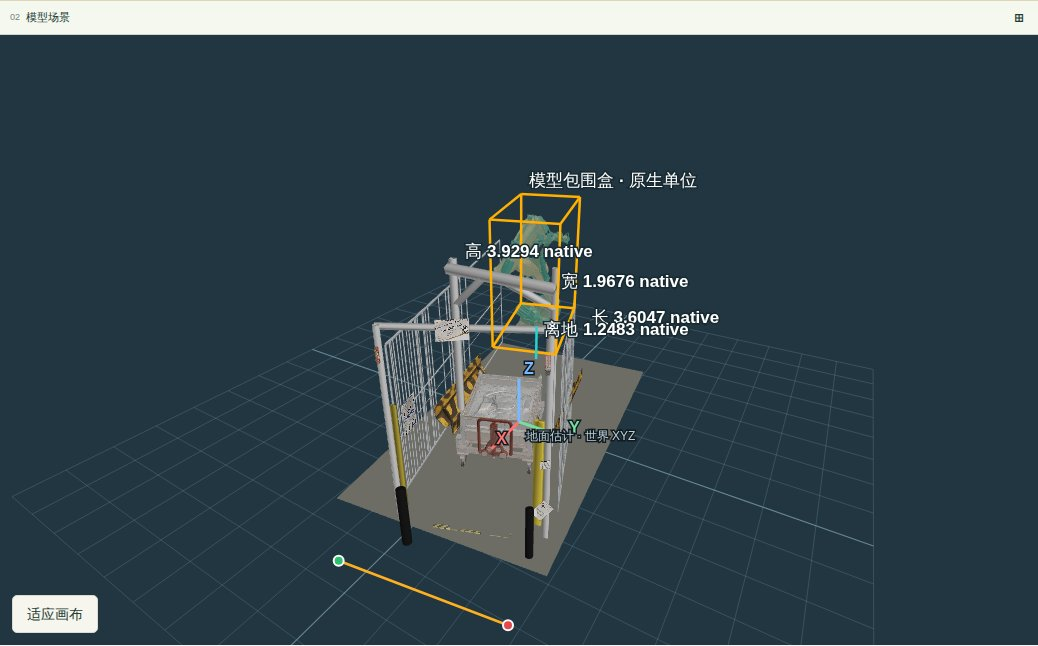
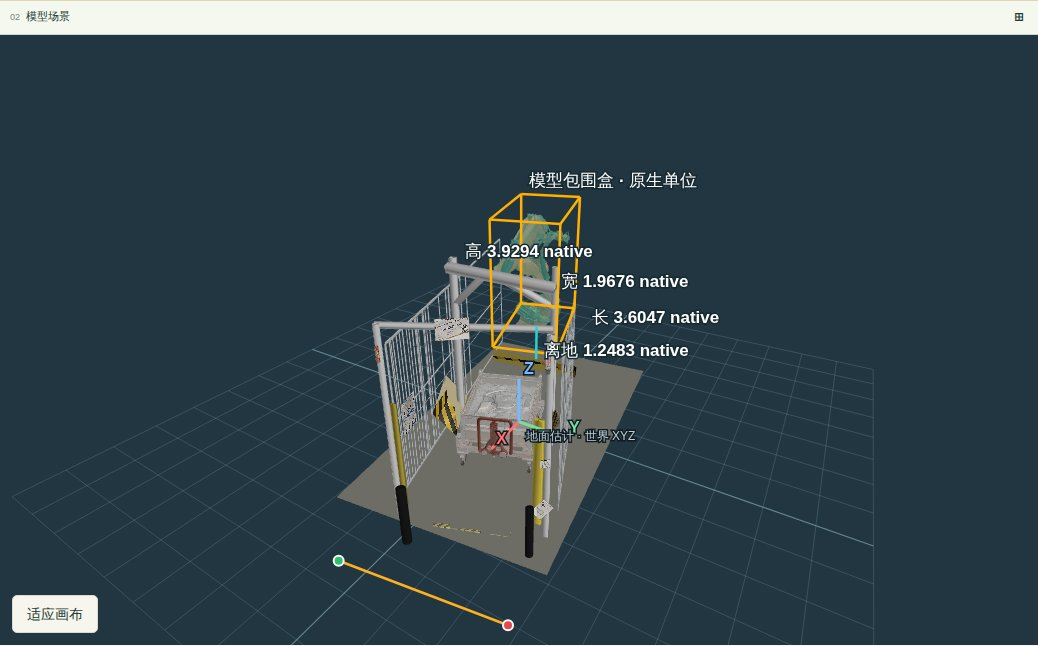
Evidence page: photo-fitted guard plates, readable labels, costs through the last check

diff --git a/workcell-photo-direct/cells-2026-10-04/index.html b/workcell-photo-direct/cells-2026-10-04/index.html
@@ -9,15 +9,15 @@ th,td{border-bottom:1px solid var(--line);padding:6px 10px;text-align:left;verti
 .pictures{display:grid;grid-template-columns:repeat(auto-fill,minmax(260px,1fr));gap:14px}figure{margin:0}img{max-width:100%;border-radius:6px}
 figcaption,small{color:var(--muted);font-size:13px}</style><main>
 <h1>四张照片其实是两个工位：按工位多视角重建</h1>
-<section><h2>结论</h2><ul><li>四张照片拍的是两个同款工位：原照片 1–2 顶牌 BL4-BOR1-030、机器人铭牌 BOR1 00030 RB01、小车满载；原照片 3–4 顶牌 BL4-BOR1-090、铭牌 BOR1 00090 RB01、小车空（见下方原图）。之前把四张融合成一个场景，所以点不同物体时机器人模型会变（其实是两台机器人）。</li><li>每个工位只用自己的两张照片各跑一次完整 oneshot：一个场景；机器人、小车、护板各一个由两张照片共同生成的 RecGen 模型，用 Sim(3) 同时对两张照片的掩码和深度放置；点选任何物体都不换模型。</li><li>龙门架：SAM 3 提示 white steel beam / blue pipe，在两张照片的点云上拟合立柱、横梁、斜撑（方截面）。030 是 4 立柱 + 2 横梁 + 2 斜撑的白色钢架；090 是入口门框（2 立柱 + 1 横梁）。</li><li>信号灯“消失”的原因：每个物体各自按证据放置，没有“实体不能互相穿过”的约束，030 的灯 4 有 87% 埋在龙门架立柱里。现在加了接触阶段：围栏端框和龙门架立柱是同一根柱子时只保留一根；立柱沿照片视线方向最小平移让开光幕（龙门架 IoU 下降 ≤ 0.03 才采用）；灯沿相机射线向相机滑出（这张照片里轮廓不变，验收仍通过才采用）；&lt; 6% 的接触算安装接触并记录。两个工位都已无穿插（最大 5.6%，急停按钮装在立柱上）。CPU 重放：090 用 5.7 s、030 用 10.0 s。</li><li>点选任何物体：面板显示模型的长 × 宽 × 高、最低点离地、顶部离地，3D 里画出定向包围盒和长/宽/高/离地标注（底面最小面积矩形 × 竖直范围）。090 用条件比例显示 cm（光幕 10.1 × 8.4 × 178.4 cm、离地 25.4 cm；信号灯约 5.5 × 5.4 × 20 cm、离地 2.85 m），030 显示 native。</li><li>尺度只来自本工位：090 用急停按钮的条件比例（未验证）；030 没有可用标尺，保持 native 单位，不借用 090 的比例。20 / 24 cm 开发检查值当初是为四张照片提供的，无法确认属于哪个工位，两个报告都不相减。</li><li>两个报告都在 Modal 云端真实浏览器（Chromium，软件 WebGL）检查通过：语义查询 → 本版本测点、尺度试算（090）/ 原生单位（030）、点选物体 → 尺寸与 3D 标注、卡尺 JSON 与下载 GLB 顶点回读，无控制台错误。本机没有渲染。没有物理验证；所有厘米值都是条件模型估计。</li></ul>
-<div class="pictures"><figure><img src="four-photos.jpg" alt="四张原图（左起原照片 1–4）：1–2 是 BL4-BOR1-030，3–4 是 BL4-BOR1-090，同款设计、不同工位"><figcaption>四张原图（左起原照片 1–4）：1–2 是 BL4-BOR1-030，3–4 是 BL4-BOR1-090，同款设计、不同工位</figcaption></figure><figure><img src="top-sign-2.jpg" alt="原照片 2 顶牌：BL4-BOR1-030"><figcaption>原照片 2 顶牌：BL4-BOR1-030</figcaption></figure><figure><img src="top-sign-4.jpg" alt="原照片 4 顶牌：BL4-BOR1-090"><figcaption>原照片 4 顶牌：BL4-BOR1-090</figcaption></figure><figure><img src="robot-poses.jpg" alt="机器人铭牌：原照片 1–2 为 BOR1 00030 RB01，3–4 为 BOR1 00090 RB01"><figcaption>机器人铭牌：原照片 1–2 为 BOR1 00030 RB01，3–4 为 BOR1 00090 RB01</figcaption></figure><figure><img src="cell-090-cloud-model-box.jpg" alt="点选物体（类 Blender）：090 机器人的定向包围盒，长 × 宽 × 高与离地（条件比例，cm）；云端浏览器截图（da1f21b）"><figcaption>点选物体（类 Blender）：090 机器人的定向包围盒，长 × 宽 × 高与离地（条件比例，cm）；云端浏览器截图（da1f21b）</figcaption></figure><figure><img src="cell-030-cloud-model-box.jpg" alt="030 同样的读数，没有标尺，所以是 native 单位"><figcaption>030 同样的读数，没有标尺，所以是 native 单位</figcaption></figure><figure><img src="cell-090-cloud-3d.jpg" alt="云端浏览器渲染：BL4-BOR1-090 一个场景（入口门框、光幕、护板、小车、机器人）"><figcaption>云端浏览器渲染：BL4-BOR1-090 一个场景（入口门框、光幕、护板、小车、机器人）</figcaption></figure><figure><img src="cell-030-cloud-3d.jpg" alt="云端浏览器渲染：BL4-BOR1-030（白色钢架龙门架、围栏、光幕、满载小车、机器人）"><figcaption>云端浏览器渲染：BL4-BOR1-030（白色钢架龙门架、围栏、光幕、满载小车、机器人）</figcaption></figure><figure><img src="cell-090-gantry-photo-1.jpg" alt="090 入口门框（接触处理后）投影到本工位照片 1（原照片 3）：彩色为各构件，蓝色为 SAM 掩码；IoU 0.60"><figcaption>090 入口门框（接触处理后）投影到本工位照片 1（原照片 3）：彩色为各构件，蓝色为 SAM 掩码；IoU 0.60</figcaption></figure><figure><img src="cell-090-gantry-photo-2.jpg" alt="090 门框投影到照片 2（原照片 4）：IoU 0.58"><figcaption>090 门框投影到照片 2（原照片 4）：IoU 0.58</figcaption></figure><figure><img src="cell-030-gantry-photo-1.jpg" alt="030 白色钢架（接触处理后）投影到照片 1（原照片 1）：IoU 0.51"><figcaption>030 白色钢架（接触处理后）投影到照片 1（原照片 1）：IoU 0.51</figcaption></figure><figure><img src="cell-030-gantry-photo-2.jpg" alt="030 钢架投影到照片 2（原照片 2）：IoU 0.44"><figcaption>030 钢架投影到照片 2（原照片 2）：IoU 0.44</figcaption></figure><figure><img src="cell-090-signal-light-2-overlay.jpg" alt="090 信号灯 2：两张照片的 RecGen 模型，立正后沿相机射线移出立柱 6 cm（左：掩码绿、模型轮廓洋红；右：模型叠加）"><figcaption>090 信号灯 2：两张照片的 RecGen 模型，立正后沿相机射线移出立柱 6 cm（左：掩码绿、模型轮廓洋红；右：模型叠加）</figcaption></figure><figure><img src="cell-090-signal-light-4-overlay.jpg" alt="090 信号灯 4：单视角，立正，IoU 0.70"><figcaption>090 信号灯 4：单视角，立正，IoU 0.70</figcaption></figure><figure><img src="cell-030-signal-light-2-overlay.jpg" alt="030 信号灯 2：单视角；自由拟合倾斜 21.0° → 立正 0°，再沿相机射线移出立柱（轮廓不变），IoU 0.66"><figcaption>030 信号灯 2：单视角；自由拟合倾斜 21.0° → 立正 0°，再沿相机射线移出立柱（轮廓不变），IoU 0.66</figcaption></figure><figure><img src="cell-030-signal-light-4-overlay.jpg" alt="030 信号灯 4：原来 87% 埋在立柱里（所以看不见）；立正并移出后 IoU 0.91"><figcaption>030 信号灯 4：原来 87% 埋在立柱里（所以看不见）；立正并移出后 IoU 0.91</figcaption></figure><figure><img src="cell-090-cloud-semantic.jpg" alt="云端浏览器：090 语义查询“寻找光幕”→ 黄色光幕立柱，测点读取本版本"><figcaption>云端浏览器：090 语义查询“寻找光幕”→ 黄色光幕立柱，测点读取本版本</figcaption></figure></div></section>
+<section><h2>结论</h2><ul><li>四张照片是同一车间里两个同款工位：原照片 1–2 顶牌 BL4-BOR1-030、机器人铭牌 BOR1 00030 RB01、小车满载；原照片 3–4 顶牌 BL4-BOR1-090、铭牌 BOR1 00090 RB01、小车空。三维重建只能把同一批物体的照片拼在一起，所以按工位分开。</li><li>每个工位只用自己的两张照片各跑一次完整 oneshot：一个场景；机器人、小车各一个由两张照片共同生成的 RecGen 模型；龙门架由两张照片拟合；信号灯是 RecGen 模型并立正放置；点选任何物体都不换模型。</li><li>V 型护板：两张照片时生成模型（RecGen）把薄板生成成一坨——两张照片的点云把同一块板放在相差几厘米的两层，生成模型把两层熔成一个厚块；030 的中间板只在照片 1 里看得到，生成块根本没对上（IoU 0.07）。现在每块板按它自己的照片点云拟合成平板（带照片纹理）：090 三块 IoU 0.62–0.75（生成块 0.42–0.71），030 中间板出现了（0.40），左板 0.52/0.50。只有一张照片支持的“折边”被判为两张照片的倾角不一致（相差 30°），不当成真实折弯。</li><li>信号灯“消失”是被龙门架立柱埋住了（030 灯 4 有 87% 在立柱里）。接触阶段：同一根柱子只建一次；立柱沿照片视线最小平移让开光幕（龙门架 IoU 下降 ≤ 0.03）；灯沿相机射线滑出（轮廓不变、验收仍通过）；&lt; 6% 的接触算安装接触。两个工位现在都无穿插。</li><li>点选任何物体：面板显示长 × 宽 × 高、最低点离地、顶部离地，3D 里画出定向包围盒和标注（标注会自动错开，不再重叠；已有测点离地线时不重复画离地）。两个报告统一叫“工位 3D 报告”，下面写明有没有尺度：090 用急停按钮的条件比例显示 cm，030 没有标尺显示 native。</li><li>所有修正都是在同一批运行上的 CPU 重放（每步几秒），没有新的 GPU 费用；两个报告都在 Modal 云端真实浏览器检查通过（本机不渲染）。没有物理验证；所有厘米值都是条件模型估计。</li></ul>
+<div class="pictures"><figure><img src="four-photos.jpg" alt="四张原图（左起原照片 1–4）：1–2 是 BL4-BOR1-030，3–4 是 BL4-BOR1-090，同一车间里两个同款工位"><figcaption>四张原图（左起原照片 1–4）：1–2 是 BL4-BOR1-030，3–4 是 BL4-BOR1-090，同一车间里两个同款工位</figcaption></figure><figure><img src="top-sign-2.jpg" alt="原照片 2 顶牌：BL4-BOR1-030"><figcaption>原照片 2 顶牌：BL4-BOR1-030</figcaption></figure><figure><img src="top-sign-4.jpg" alt="原照片 4 顶牌：BL4-BOR1-090"><figcaption>原照片 4 顶牌：BL4-BOR1-090</figcaption></figure><figure><img src="robot-poses.jpg" alt="机器人铭牌：原照片 1–2 为 BOR1 00030 RB01，3–4 为 BOR1 00090 RB01"><figcaption>机器人铭牌：原照片 1–2 为 BOR1 00030 RB01，3–4 为 BOR1 00090 RB01</figcaption></figure><figure><img src="cell-090-cloud-3d.jpg" alt="云端浏览器渲染（6942fd7）：BL4-BOR1-090，V 型护板是照片拟合的平板（中间一块在小车后面，两侧斜放）"><figcaption>云端浏览器渲染（6942fd7）：BL4-BOR1-090，V 型护板是照片拟合的平板（中间一块在小车后面，两侧斜放）</figcaption></figure><figure><img src="cell-030-cloud-3d.jpg" alt="云端浏览器渲染：BL4-BOR1-030（白色钢架龙门架、围栏、光幕、满载小车、照片拟合的护板）；native 单位"><figcaption>云端浏览器渲染：BL4-BOR1-030（白色钢架龙门架、围栏、光幕、满载小车、照片拟合的护板）；native 单位</figcaption></figure><figure><img src="cell-090-cloud-model-box.jpg" alt="点选物体（类 Blender）：机器人的定向包围盒，长 × 宽 × 高与离地；标注不再重叠"><figcaption>点选物体（类 Blender）：机器人的定向包围盒，长 × 宽 × 高与离地；标注不再重叠</figcaption></figure><figure><img src="cell-030-cloud-model-box.jpg" alt="030 同样的读数，没有标尺，所以是 native 单位"><figcaption>030 同样的读数，没有标尺，所以是 native 单位</figcaption></figure><figure><img src="cell-090-gantry-photo-1.jpg" alt="090 入口门框投影到本工位照片 1（原照片 3）：彩色为各构件，蓝色为 SAM 掩码；IoU 0.60"><figcaption>090 入口门框投影到本工位照片 1（原照片 3）：彩色为各构件，蓝色为 SAM 掩码；IoU 0.60</figcaption></figure><figure><img src="cell-090-gantry-photo-2.jpg" alt="090 门框投影到照片 2（原照片 4）：IoU 0.58"><figcaption>090 门框投影到照片 2（原照片 4）：IoU 0.58</figcaption></figure><figure><img src="cell-030-gantry-photo-1.jpg" alt="030 白色钢架投影到照片 1（原照片 1）：IoU 0.51"><figcaption>030 白色钢架投影到照片 1（原照片 1）：IoU 0.51</figcaption></figure><figure><img src="cell-030-gantry-photo-2.jpg" alt="030 钢架投影到照片 2（原照片 2）：IoU 0.44"><figcaption>030 钢架投影到照片 2（原照片 2）：IoU 0.44</figcaption></figure><figure><img src="cell-030-signal-light-4-overlay.jpg" alt="030 信号灯 4：原来 87% 埋在立柱里（所以看不见）；立正并沿相机射线移出后 IoU 0.91"><figcaption>030 信号灯 4：原来 87% 埋在立柱里（所以看不见）；立正并沿相机射线移出后 IoU 0.91</figcaption></figure><figure><img src="cell-030-signal-light-2-overlay.jpg" alt="030 信号灯 2：自由拟合倾斜 21.0° → 立正 0°，再移出立柱（轮廓不变），IoU 0.66"><figcaption>030 信号灯 2：自由拟合倾斜 21.0° → 立正 0°，再移出立柱（轮廓不变），IoU 0.66</figcaption></figure><figure><img src="cell-090-signal-light-2-overlay.jpg" alt="090 信号灯 2：两张照片的 RecGen 模型，立正后沿相机射线移出立柱 6 cm"><figcaption>090 信号灯 2：两张照片的 RecGen 模型，立正后沿相机射线移出立柱 6 cm</figcaption></figure></div></section>
 <section><h2>BL4-BOR1-090（原照片 3–4）</h2>
 <p>照片 1 = image_03.jpg, 照片 2 = image_04.jpg；参考照片 2。<a href="../">打开这个工位的 3D 报告</a></p>
 <p>24 个对象，53 个观察。尺度：conditional_unvalidated，0.67433 m/native（条件比例，未验证）。</p>
 <div class="scroll"><table><thead><tr><th>阶段</th><th>秒</th></tr></thead><tbody><tr><td>完整 oneshot（本机计时，端到端）</td><td>445.1</td></tr><tr><td>报告界面构建（vite，一次，两个工位共用）</td><td>1.2</td></tr><tr><td>主 Modal 调用（本机 modal run 计时）</td><td>367.5</td></tr><tr><td>其中 modal run 启动与收尾（本机）</td><td>12.0</td></tr><tr><td>其中排队、冷启动与照片/结果传输</td><td>34.8</td></tr><tr><td>其中容器运行</td><td>320.7</td></tr><tr><td>容器内：几何（MapAnything）</td><td>45.6</td></tr><tr><td>容器内：OWLv2 检测</td><td>13.7</td></tr><tr><td>容器内：SAM 3 分割</td><td>44.1</td></tr><tr><td>容器内：小车掩码</td><td>2.6</td></tr><tr><td>容器内：RecGen 输入准备</td><td>6.5</td></tr><tr><td>容器内：RecGen 多视角模型（机器人、小车、护板）</td><td>69.8</td></tr><tr><td>容器内：模型之后的全部阶段（CPU 后处理与信号灯）</td><td>153.4</td></tr><tr><td>　其中信号灯 RecGen 与放置</td><td>77.3</td></tr><tr><td>　其中 CPU 后处理（地面、对象、龙门架、尺寸）</td><td>76.2</td></tr><tr><td>语义阶段（第二个 Modal 调用，含排队）</td><td>71.6</td></tr><tr><td>本机：证据图</td><td>1.6</td></tr><tr><td>本机：报告定稿</td><td>3.1</td></tr><tr><td>本机：导出</td><td>0.6</td></tr><tr><td>本机：打包页面</td><td>0.7</td></tr></tbody></table></div>
 <div class="scroll"><table><thead><tr><th>Modal 调用</th><th>返回码</th><th>调用窗口 s</th></tr></thead><tbody><tr><td>one-container</td><td>0</td><td>367.5</td></tr><tr><td>semantic</td><td>0</td><td>68.5</td></tr></tbody></table></div>
 <p><small>估计费用（主调用 + 语义调用）：函数窗口 $0.631，调用窗口 $0.716（列表价，非账单）。</small></p>
-<div class="scroll"><table><thead><tr><th>对象</th><th>模型</th><th>视角</th><th>每张照片的掩码 IoU</th></tr></thead><tbody><tr><td>robot</td><td>RecGen 多视角</td><td>1, 2</td><td>照片1 0.75 / 照片2 0.76</td></tr><tr><td>cart</td><td>RecGen 多视角</td><td>1, 2</td><td>照片1 0.86 / 照片2 0.88</td></tr><tr><td>signal-light-2</td><td>RecGen（灯，2 个视角），立正：自由拟合倾斜 1.3° → 0.0°</td><td>2, 1</td><td>照片1 0.74 / 照片2 0.76</td></tr><tr><td>signal-light-4</td><td>RecGen（灯，1 个视角），立正：自由拟合倾斜 4.9° → 0.0°</td><td>2</td><td>照片2 0.70</td></tr><tr><td>gantry</td><td>龙门架 3 根构件</td><td>1, 2</td><td>照片1 0.60 / 照片2 0.58</td></tr><tr><td>v-guard-left / center / right</td><td>RecGen 多视角（一个护板模型，按原图掩码分成三块）</td><td>1, 2</td><td>照片1 0.61 / 照片2 0.64</td></tr></tbody></table></div>
+<div class="scroll"><table><thead><tr><th>对象</th><th>模型</th><th>视角</th><th>每张照片的掩码 IoU</th></tr></thead><tbody><tr><td>robot</td><td>RecGen 多视角</td><td>1, 2</td><td>照片1 0.75 / 照片2 0.76</td></tr><tr><td>cart</td><td>RecGen 多视角</td><td>1, 2</td><td>照片1 0.86 / 照片2 0.88</td></tr><tr><td>v-guard-left</td><td>照片拟合平板（1 面），替换 RecGen 块（该块 IoU：照片1 0.71 / 照片2 0.64）</td><td>1, 2</td><td>照片1 0.62 / 照片2 0.75</td></tr><tr><td>v-guard-center</td><td>照片拟合平板（1 面），替换 RecGen 块（该块 IoU：照片1 0.48 / 照片2 0.42）</td><td>1, 2</td><td>照片1 0.62 / 照片2 0.62</td></tr><tr><td>v-guard-right</td><td>照片拟合平板（1 面），替换 RecGen 块（该块 IoU：照片1 0.55 / 照片2 0.56）</td><td>1, 2</td><td>照片1 0.66 / 照片2 0.65</td></tr><tr><td>signal-light-2</td><td>RecGen（灯，2 个视角），立正：自由拟合倾斜 1.3° → 0.0°</td><td>2, 1</td><td>照片1 0.74 / 照片2 0.76</td></tr><tr><td>signal-light-4</td><td>RecGen（灯，1 个视角），立正：自由拟合倾斜 4.9° → 0.0°</td><td>2</td><td>照片2 0.70</td></tr><tr><td>gantry</td><td>龙门架 3 根构件</td><td>1, 2</td><td>照片1 0.60 / 照片2 0.58</td></tr></tbody></table></div>
 <div class="scroll"><table><thead><tr><th>测点</th><th>离地（条件估计）</th></tr></thead><tbody><tr><td>右侧光幕底端</td><td>25.40 cm</td></tr><tr><td>左侧光幕底端</td><td>28.08 cm</td></tr><tr><td>右侧光幕旁围栏下沿</td><td>19.32 cm</td></tr><tr><td>左侧光幕旁围栏下包络假设</td><td>22.39 cm</td></tr></tbody></table></div>
 </section><section><h2>BL4-BOR1-030（原照片 1–2）</h2>
 <p>照片 1 = image_01.jpg, 照片 2 = image_02.jpg；参考照片 2。<a href="../cell-030/">打开这个工位的 3D 报告</a></p>
@@ -25,9 +25,9 @@ figcaption,small{color:var(--muted);font-size:13px}</style><main>
 <div class="scroll"><table><thead><tr><th>阶段</th><th>秒</th></tr></thead><tbody><tr><td>完整 oneshot（本机计时，端到端）</td><td>384.1</td></tr><tr><td>报告界面构建（vite，一次，两个工位共用）</td><td>1.2</td></tr><tr><td>主 Modal 调用（本机 modal run 计时）</td><td>314.8</td></tr><tr><td>其中 modal run 启动与收尾（本机）</td><td>11.9</td></tr><tr><td>其中排队、冷启动与照片/结果传输</td><td>24.8</td></tr><tr><td>其中容器运行</td><td>278.1</td></tr><tr><td>容器内：几何（MapAnything）</td><td>41.1</td></tr><tr><td>容器内：OWLv2 检测</td><td>15.7</td></tr><tr><td>容器内：SAM 3 分割</td><td>38.1</td></tr><tr><td>容器内：小车掩码</td><td>2.4</td></tr><tr><td>容器内：RecGen 输入准备</td><td>7.0</td></tr><tr><td>容器内：RecGen 多视角模型（机器人、小车、护板）</td><td>59.1</td></tr><tr><td>容器内：模型之后的全部阶段（CPU 后处理与信号灯）</td><td>123.6</td></tr><tr><td>　其中信号灯 RecGen 与放置</td><td>55.9</td></tr><tr><td>　其中 CPU 后处理（地面、对象、龙门架、尺寸）</td><td>67.6</td></tr><tr><td>语义阶段（第二个 Modal 调用，含排队）</td><td>63.3</td></tr><tr><td>本机：证据图</td><td>1.4</td></tr><tr><td>本机：报告定稿</td><td>3.0</td></tr><tr><td>本机：导出</td><td>0.5</td></tr><tr><td>本机：打包页面</td><td>1.1</td></tr></tbody></table></div>
 <div class="scroll"><table><thead><tr><th>Modal 调用</th><th>返回码</th><th>调用窗口 s</th></tr></thead><tbody><tr><td>one-container</td><td>0</td><td>314.8</td></tr><tr><td>semantic</td><td>0</td><td>60.1</td></tr></tbody></table></div>
 <p><small>估计费用（主调用 + 语义调用）：函数窗口 $0.553，调用窗口 $0.622（列表价，非账单）。</small></p>
-<div class="scroll"><table><thead><tr><th>对象</th><th>模型</th><th>视角</th><th>每张照片的掩码 IoU</th></tr></thead><tbody><tr><td>robot</td><td>RecGen 多视角</td><td>1, 2</td><td>照片1 0.72 / 照片2 0.58</td></tr><tr><td>cart</td><td>RecGen 多视角</td><td>1, 2</td><td>照片1 0.84 / 照片2 0.90</td></tr><tr><td>signal-light-2</td><td>RecGen（灯，1 个视角），立正：自由拟合倾斜 21.0° → 0.0°</td><td>2</td><td>照片2 0.66</td></tr><tr><td>signal-light-4</td><td>RecGen（灯，1 个视角），立正：自由拟合倾斜 4.8° → 0.0°</td><td>2</td><td>照片2 0.91</td></tr><tr><td>gantry</td><td>龙门架 8 根构件</td><td>1, 2</td><td>照片1 0.51 / 照片2 0.44</td></tr><tr><td>v-guard-left / center / right</td><td>RecGen 多视角（一个护板模型，按原图掩码分成三块）</td><td>1, 2</td><td>照片1 0.59 / 照片2 0.58</td></tr></tbody></table></div>
+<div class="scroll"><table><thead><tr><th>对象</th><th>模型</th><th>视角</th><th>每张照片的掩码 IoU</th></tr></thead><tbody><tr><td>robot</td><td>RecGen 多视角</td><td>1, 2</td><td>照片1 0.72 / 照片2 0.58</td></tr><tr><td>cart</td><td>RecGen 多视角</td><td>1, 2</td><td>照片1 0.84 / 照片2 0.90</td></tr><tr><td>v-guard-left</td><td>照片拟合平板（1 面），替换 RecGen 块（该块 IoU：照片1 0.56 / 照片2 0.35）</td><td>1, 2</td><td>照片1 0.52 / 照片2 0.50</td></tr><tr><td>v-guard-center</td><td>照片拟合平板（1 面），替换 RecGen 块（该块 IoU：照片1 0.07）</td><td>1</td><td>照片1 0.40</td></tr><tr><td>v-guard-right</td><td>照片拟合平板（1 面），替换 RecGen 块（该块 IoU：照片1 0.57）</td><td>1</td><td>照片1 0.74</td></tr><tr><td>signal-light-2</td><td>RecGen（灯，1 个视角），立正：自由拟合倾斜 21.0° → 0.0°</td><td>2</td><td>照片2 0.66</td></tr><tr><td>signal-light-4</td><td>RecGen（灯，1 个视角），立正：自由拟合倾斜 4.8° → 0.0°</td><td>2</td><td>照片2 0.91</td></tr><tr><td>gantry</td><td>龙门架 8 根构件</td><td>1, 2</td><td>照片1 0.51 / 照片2 0.44</td></tr></tbody></table></div>
 <div class="scroll"><table><thead><tr><th>测点</th><th>离地（条件估计）</th></tr></thead><tbody><tr><td>右侧光幕底端</td><td>0.4535 native</td></tr><tr><td>左侧光幕底端</td><td>0.3363 native</td></tr><tr><td>左侧光幕旁围栏下包络假设</td><td>0.3912 native</td></tr></tbody></table></div>
 </section>
-<section><h2>本轮全部 Modal 调用（GPU 与 CPU，含失败）</h2><div class="scroll"><table><thead><tr><th>调用</th><th>状态</th><th>函数估计 $</th><th>调用窗口估计 $</th></tr></thead><tbody><tr><td>cell 090 attempt a (builder) oneshot</td><td>failed</td><td>0.332</td><td>0.332</td></tr><tr><td>cell 090 attempt b (builder) oneshot</td><td>failed</td><td>0.384</td><td>0.439</td></tr><tr><td>cell 090 attempt c (builder, superseded) oneshot</td><td>completed_superseded</td><td>0.247</td><td>0.277</td></tr><tr><td>cell 090 attempt c (builder, superseded) semantic stage</td><td>completed_superseded</td><td>0.036</td><td>0.052</td></tr><tr><td>cell 030 attempt a (builder, superseded) oneshot</td><td>completed_superseded</td><td>0.237</td><td>0.272</td></tr><tr><td>cell 030 attempt a (builder, superseded) semantic stage</td><td>completed_superseded</td><td>0.035</td><td>0.051</td></tr><tr><td>gantry SAM 3 prompt probe</td><td>completed</td><td>0.079</td><td>0.079</td></tr><tr><td>lamp RecGen probe (both cells + canonical-grid controls)</td><td>completed</td><td>0.266</td><td>0.337</td></tr><tr><td>cloud browser check a (failed: browsers path)</td><td>failed</td><td>0.001</td><td>0.002</td></tr><tr><td>cloud browser check b (2026-10-03 report)</td><td>completed</td><td>0.013</td><td>0.013</td></tr><tr><td>cell 090 final (gantry + lamps, superseded by v2) oneshot</td><td>completed_superseded</td><td>0.486</td><td>0.528</td></tr><tr><td>cell 090 final (gantry + lamps, superseded by v2) semantic stage</td><td>completed_superseded</td><td>0.060</td><td>0.105</td></tr><tr><td>cell 030 final (gantry + lamps, superseded by v2) oneshot</td><td>completed_superseded</td><td>0.441</td><td>0.643</td></tr><tr><td>cell 030 final (gantry + lamps, superseded by v2) semantic stage</td><td>completed_superseded</td><td>0.066</td><td>0.091</td></tr><tr><td>cell 090 v2 (upright lamps, published) oneshot</td><td>completed</td><td>0.569</td><td>0.631</td></tr><tr><td>cell 090 v2 (upright lamps, published) semantic stage</td><td>completed</td><td>0.062</td><td>0.085</td></tr><tr><td>cell 030 v2 (upright lamps, published) oneshot</td><td>completed</td><td>0.494</td><td>0.538</td></tr><tr><td>cell 030 v2 (upright lamps, published) semantic stage</td><td>completed</td><td>0.059</td><td>0.084</td></tr><tr><td>cloud browser check, cell 090 report 9e47e2f</td><td>completed</td><td>0.010</td><td>0.010</td></tr><tr><td>cloud browser check, cell 030 report 9e47e2f</td><td>completed</td><td>0.007</td><td>0.007</td></tr><tr><td>cloud browser check, cell 090 report 2bddf31</td><td>completed</td><td>0.008</td><td>0.008</td></tr><tr><td>cloud browser check, cell 030 report 2bddf31</td><td>completed</td><td>0.006</td><td>0.007</td></tr><tr><td>cloud browser check, cell 090 report 09a1849 (contacts, model box)</td><td>completed</td><td>0.009</td><td>0.009</td></tr><tr><td>cloud browser check, cell 030 report 09a1849 (contacts, model box)</td><td>completed</td><td>0.007</td><td>0.007</td></tr><tr><td>cloud browser check, cell 090 report da1f21b (labels)</td><td>completed</td><td>0.010</td><td>0.010</td></tr><tr><td>cloud browser check, cell 030 report da1f21b (labels)</td><td>completed</td><td>0.007</td><td>0.007</td></tr><tr><td>合计（含失败）</td><td>26 次调用，3 次失败</td><td>3.930</td><td>4.624</td></tr><tr><td>其中失败</td><td></td><td>0.718</td><td>0.773</td></tr></tbody></table></div>
+<section><h2>本轮全部 Modal 调用（GPU 与 CPU，含失败）</h2><div class="scroll"><table><thead><tr><th>调用</th><th>状态</th><th>函数估计 $</th><th>调用窗口估计 $</th></tr></thead><tbody><tr><td>cell 090 attempt a (builder) oneshot</td><td>failed</td><td>0.332</td><td>0.332</td></tr><tr><td>cell 090 attempt b (builder) oneshot</td><td>failed</td><td>0.384</td><td>0.439</td></tr><tr><td>cell 090 attempt c (builder, superseded) oneshot</td><td>completed_superseded</td><td>0.247</td><td>0.277</td></tr><tr><td>cell 090 attempt c (builder, superseded) semantic stage</td><td>completed_superseded</td><td>0.036</td><td>0.052</td></tr><tr><td>cell 030 attempt a (builder, superseded) oneshot</td><td>completed_superseded</td><td>0.237</td><td>0.272</td></tr><tr><td>cell 030 attempt a (builder, superseded) semantic stage</td><td>completed_superseded</td><td>0.035</td><td>0.051</td></tr><tr><td>gantry SAM 3 prompt probe</td><td>completed</td><td>0.079</td><td>0.079</td></tr><tr><td>lamp RecGen probe (both cells + canonical-grid controls)</td><td>completed</td><td>0.266</td><td>0.337</td></tr><tr><td>cloud browser check a (failed: browsers path)</td><td>failed</td><td>0.001</td><td>0.002</td></tr><tr><td>cloud browser check b (2026-10-03 report)</td><td>completed</td><td>0.013</td><td>0.013</td></tr><tr><td>cell 090 final (gantry + lamps, superseded by v2) oneshot</td><td>completed_superseded</td><td>0.486</td><td>0.528</td></tr><tr><td>cell 090 final (gantry + lamps, superseded by v2) semantic stage</td><td>completed_superseded</td><td>0.060</td><td>0.105</td></tr><tr><td>cell 030 final (gantry + lamps, superseded by v2) oneshot</td><td>completed_superseded</td><td>0.441</td><td>0.643</td></tr><tr><td>cell 030 final (gantry + lamps, superseded by v2) semantic stage</td><td>completed_superseded</td><td>0.066</td><td>0.091</td></tr><tr><td>cell 090 v2 (upright lamps, published) oneshot</td><td>completed</td><td>0.569</td><td>0.631</td></tr><tr><td>cell 090 v2 (upright lamps, published) semantic stage</td><td>completed</td><td>0.062</td><td>0.085</td></tr><tr><td>cell 030 v2 (upright lamps, published) oneshot</td><td>completed</td><td>0.494</td><td>0.538</td></tr><tr><td>cell 030 v2 (upright lamps, published) semantic stage</td><td>completed</td><td>0.059</td><td>0.084</td></tr><tr><td>cloud browser check, cell 090 report 9e47e2f</td><td>completed</td><td>0.010</td><td>0.010</td></tr><tr><td>cloud browser check, cell 030 report 9e47e2f</td><td>completed</td><td>0.007</td><td>0.007</td></tr><tr><td>cloud browser check, cell 090 report 2bddf31</td><td>completed</td><td>0.008</td><td>0.008</td></tr><tr><td>cloud browser check, cell 030 report 2bddf31</td><td>completed</td><td>0.006</td><td>0.007</td></tr><tr><td>cloud browser check, cell 090 report 09a1849 (contacts, model box)</td><td>completed</td><td>0.009</td><td>0.009</td></tr><tr><td>cloud browser check, cell 030 report 09a1849 (contacts, model box)</td><td>completed</td><td>0.007</td><td>0.007</td></tr><tr><td>cloud browser check, cell 090 report da1f21b (labels)</td><td>completed</td><td>0.010</td><td>0.010</td></tr><tr><td>cloud browser check, cell 030 report da1f21b (labels)</td><td>completed</td><td>0.007</td><td>0.007</td></tr><tr><td>cloud browser check, cell 090 report 6942fd7 (guard plates)</td><td>completed</td><td>0.006</td><td>0.007</td></tr><tr><td>cloud browser check, cell 030 report 6942fd7 (guard plates)</td><td>completed</td><td>0.006</td><td>0.007</td></tr><tr><td>合计（含失败）</td><td>28 次调用，3 次失败</td><td>3.943</td><td>4.637</td></tr><tr><td>其中失败</td><td></td><td>0.718</td><td>0.773</td></tr></tbody></table></div>
 <p><small>列表价估计，非账单；actualBilledUsd 为 null。没有物理验证。</small></p></section>
 </main></html>
